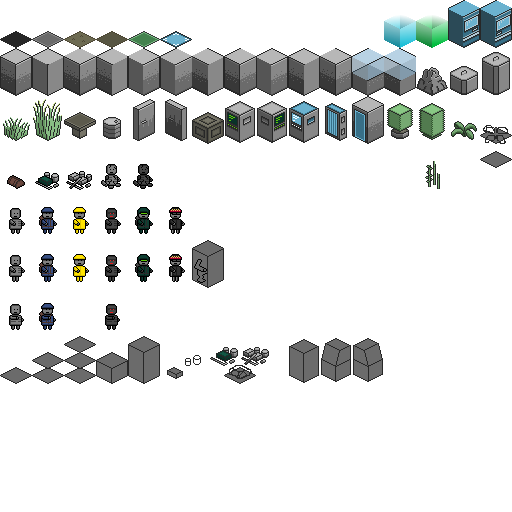
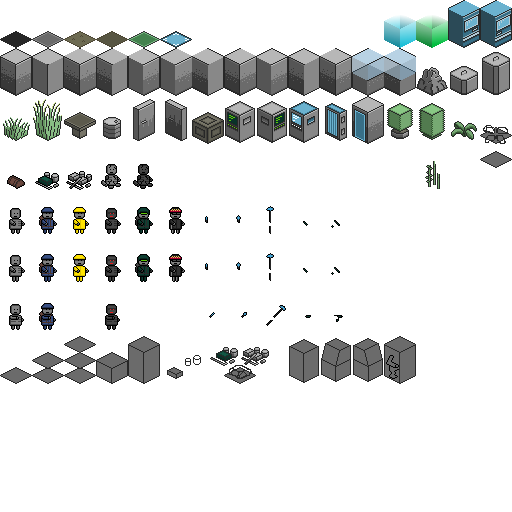
Continue implementing equipment and inventory - weapons can be equipped - added weapon sprites - added CharacterRenderer that renders armor and weapon - show damage, speed and range in weapon info - updated weapon names and entites that have weapons - added new weapons

diff --git a/client/js/renderer.js b/client/js/renderer.js
@@ -54,9 +54,9 @@ class SpriteRenderer extends Renderer {
 }
 
 class AnimatedSpriteRenderer extends SpriteRenderer {
-  constructor(layer, texture, animations) {
+  constructor(layer, texture, animations, startAnimationName = 'idle') {
     super(layer, texture, null);
-    this._currentAnimationName = 'idle';
+    this._currentAnimationName = startAnimationName;
     this._animations = animations;
     this._animation = animations[this._currentAnimationName];
   }
@@ -72,6 +72,101 @@ class AnimatedSpriteRenderer extends SpriteRenderer {
   setAnimation(name) {
     this._currentAnimationName = name;
     this._animation = this._animations[this._currentAnimationName];
+    this._animation.reset();
+  }
+}
+
+class CharacterRenderer {
+  constructor(armorType, weaponType) {
+    this._entity = null;
+    this.armorRenderer = null;
+    this.weaponRenderer = null;
+
+    this.setArmor(armorType);
+    this.setWeapon(weaponType);
+  }
+
+  get layer() {
+    return this.armorRenderer.layer;
+  }
+
+  set entity(entity) {
+    this._entity = entity;
+    this.armorRenderer.entity = entity;
+    if (this.weaponRenderer) {
+      this.weaponRenderer.entity = entity;
+    }
+  }
+
+  get entity() {
+    return this._entity;
+  }
+
+  setAnimation(name) {
+    this.armorRenderer.setAnimation(name);
+    if (this.weaponRenderer) {
+      this.weaponRenderer.setAnimation(name);
+    }
+  }
+
+  setArmor(armorType) {
+    if (this.armorRenderer) {
+      this.armorRenderer.dispose();
+    }
+
+    const currentAnimationName = this.armorRenderer ? this.armorRenderer.currentAnimationName : 'idle';
+    this.armorRenderer = new AnimatedSpriteRenderer(
+      RenderLayer.Walls,
+      ResourceManager.texture,
+      ResourceManager.getAnimationsByType(armorType)
+      );
+    this.armorRenderer.entity = this.entity;
+    // sync armor and weapon animations
+    this.armorRenderer.setAnimation(currentAnimationName);
+    if (this.weaponRenderer) {
+      this.weaponRenderer.setAnimation(currentAnimationName);
+    }
+  }
+
+  setWeapon(weaponType) {
+    if (this.weaponRenderer) {
+      this.weaponRenderer.dispose();
+    }
+
+    if (weaponType !== 'none') {
+      const currentAnimationName = this.armorRenderer ? this.armorRenderer.currentAnimationName : 'idle';
+      this.weaponRenderer = new AnimatedSpriteRenderer(
+        RenderLayer.Walls,
+        ResourceManager.texture,
+        ResourceManager.getAnimationsByType(weaponType)
+        );
+      this.weaponRenderer.entity = this.entity;
+      // sync armor and weapon animations
+      this.weaponRenderer.setAnimation(currentAnimationName);
+      this.armorRenderer.setAnimation(currentAnimationName);
+    }
+    else {
+      this.weaponRenderer = null;
+    }
+  }
+
+  render(display) {
+    this.armorRenderer.render(display);
+    if (this.weaponRenderer) {
+      this.weaponRenderer.render(display);
+    }
+  }
+
+  dispose() {
+    this.entity = null;
+    if (this.armorRenderer) {
+      this.armorRenderer.dispose();
+      this.armorRenderer = null;
+    }
+    if (this.weaponRenderer) {
+      this.weaponRenderer.dispose();
+      this.weaponRenderer = null;
+    }
   }
 }
 
@@ -108,5 +203,9 @@ class Animation {
       }
     }
     return this._frames[i];
+  }
+
+  reset() {
+    this._animationTime = 0;
   }
 }

diff --git a/client/js/entity/entity_manager.js b/client/js/entity/entity_manager.js
@@ -162,12 +162,9 @@ class EntityManager {
 
   static createPlayer(data) {
     const pos = Vector2.fromObject(data.pos);
-    const armorType = data.equipment.armor ? data.equipment.armor.type : 'none'; 
-    const renderer = new AnimatedSpriteRenderer(
-      RenderLayer.Walls,
-      ResourceManager.texture,
-      ResourceManager.getAnimationsByType(armorType)
-      );
+    const armorType = data.equipment.armor ? data.equipment.armor.type : 'none';
+    const weaponType = data.equipment.weapon ? data.equipment.weapon.type : 'none';
+    const renderer = new CharacterRenderer(armorType, weaponType);
     const player = new Character(data.networkId, pos, renderer, data.name, data.actions);
     this._add(player);
     return player;
@@ -175,12 +172,9 @@ class EntityManager {
 
   static createNPC(data) {
     const pos = Vector2.fromObject(data.pos);
-    const armorType = data.equipment.armor ? data.equipment.armor.type : 'none'; 
-    const renderer = new AnimatedSpriteRenderer(
-      RenderLayer.Walls,
-      ResourceManager.texture,
-      ResourceManager.getAnimationsByType(armorType)
-      );
+    const armorType = data.equipment.armor ? data.equipment.armor.type : 'none';
+    const weaponType = data.equipment.weapon ? data.equipment.weapon.type : 'none';
+    const renderer = new CharacterRenderer(armorType, weaponType);
     const npc = new Character(data.networkId, pos, renderer, data.name, data.actions);
     this._add(npc, false);
     return npc;

diff --git a/client/js/resource_manager.js b/client/js/resource_manager.js
@@ -79,6 +79,56 @@ class ResourceManager {
           frames: [[Rect(69), 0.2], [Rect(85), 0.2]]
         }
       ],
+      standard_baton: [
+        {
+          name: 'idle',
+          frames: [[Rect(70), 1]]
+        },
+        {
+          name: 'walk',
+          frames: [[Rect(70), 0.2], [Rect(86), 0.2]]
+        }
+      ],
+      standard_mace: [
+        {
+          name: 'idle',
+          frames: [[Rect(71), 1]]
+        },
+        {
+          name: 'walk',
+          frames: [[Rect(71), 0.2], [Rect(87), 0.2]]
+        }
+      ],
+      standard_pole_hammer: [
+        {
+          name: 'idle',
+          frames: [[Rect(72), 1]]
+        },
+        {
+          name: 'walk',
+          frames: [[Rect(72), 0.2], [Rect(88), 0.2]]
+        }
+      ],
+      standard_pistol: [
+        {
+          name: 'idle',
+          frames: [[Rect(73), 1]]
+        },
+        {
+          name: 'walk',
+          frames: [[Rect(73), 0.2], [Rect(89), 0.2]]
+        }
+      ],
+      standard_smg: [
+        {
+          name: 'idle',
+          frames: [[Rect(74), 1]]
+        },
+        {
+          name: 'walk',
+          frames: [[Rect(74), 0.2], [Rect(90), 0.2]]
+        }
+      ]
     };
 
     this._audioEnabled = false;

diff --git a/client/js/entity/entity.js b/client/js/entity/entity.js
@@ -12,6 +12,10 @@ class Entity {
   dispose() {
     this._removed = true;
     EntityManager._entityRemoved = true;
+    if (this.renderer) {
+      this.renderer.dispose();
+      this.renderer = null;
+    }
   }
 
   update(game) {}
@@ -109,17 +113,6 @@ class Character extends Entity {
 
     this._inCombat = false;
     this._hp = null;
-  }
-
-  changeRenderer(armorType, weaponType) {
-    const animationName = this.renderer.currentAnimationName;
-    this.renderer = new AnimatedSpriteRenderer(
-      RenderLayer.Walls,
-      ResourceManager.texture,
-      ResourceManager.getAnimationsByType(armorType)
-      );
-    this.renderer.entity = this;
-    this.renderer.setAnimation(animationName);
   }
 
   setPath(path) {

diff --git a/server/lib/game.js b/server/lib/game.js
@@ -146,10 +146,15 @@ class Game {
       connection: connection,
       equipment: {
         inventory: [
-          "survival_outfit",
-          "military_armor",
-          "worker_outfit",
-          "sairaan_nopee_outfit"
+          'survival_outfit',
+          'military_armor',
+          'worker_outfit',
+          'sairaan_nopee_outfit',
+          'standard_baton',
+          'standard_mace',
+          'standard_pole_hammer',
+          'standard_pistol',
+          'standard_smg'
         ]
       }
     }, EntityManager.getDataByType('player'));

diff --git a/server/lib/item.js b/server/lib/item.js
@@ -74,6 +74,10 @@ class Equipment {
     return this._armor;
   }
 
+  get weapon() {
+    return this._weapon;
+  }
+
   get damage() {
     if (this._weapon) {
       return this._weapon.damage;
@@ -235,7 +239,7 @@ class Weapon extends Item {
       type: this._type,
       baseType: this._baseType,
       name: this._name,
-      info: `Damage ${this._damage}`
+      info: `Damage ${this._damage}<br>Speed ${this._speed}<br>Range ${this._range}`
     };
   }
 }

diff --git a/server/lib/entity/character.js b/server/lib/entity/character.js
@@ -188,6 +188,13 @@ class Character extends Entity {
             speed: this.speed
           });
         }
+        else if (item.baseType === 'weapon') {
+          this.area.broadcast({
+            type: 'update',
+            networkId: this.networkId,
+            weaponType: this.equipment.weapon ? this.equipment.weapon.type : 'none'
+          });
+        }
       }
     }
   }

diff --git a/client/js/state/game_state.js b/client/js/state/game_state.js
@@ -176,7 +176,10 @@ class GameState extends State {
     //   entity._hp = data.hp;
     // }
     if (data.armorType) {
-      entity.changeRenderer(data.armorType);
+      entity.renderer.setArmor(data.armorType);
+    }
+    if (data.weaponType) {
+      entity.renderer.setWeapon(data.weaponType);
     }
     if (data.speed) {
       entity.speed = data.speed;
